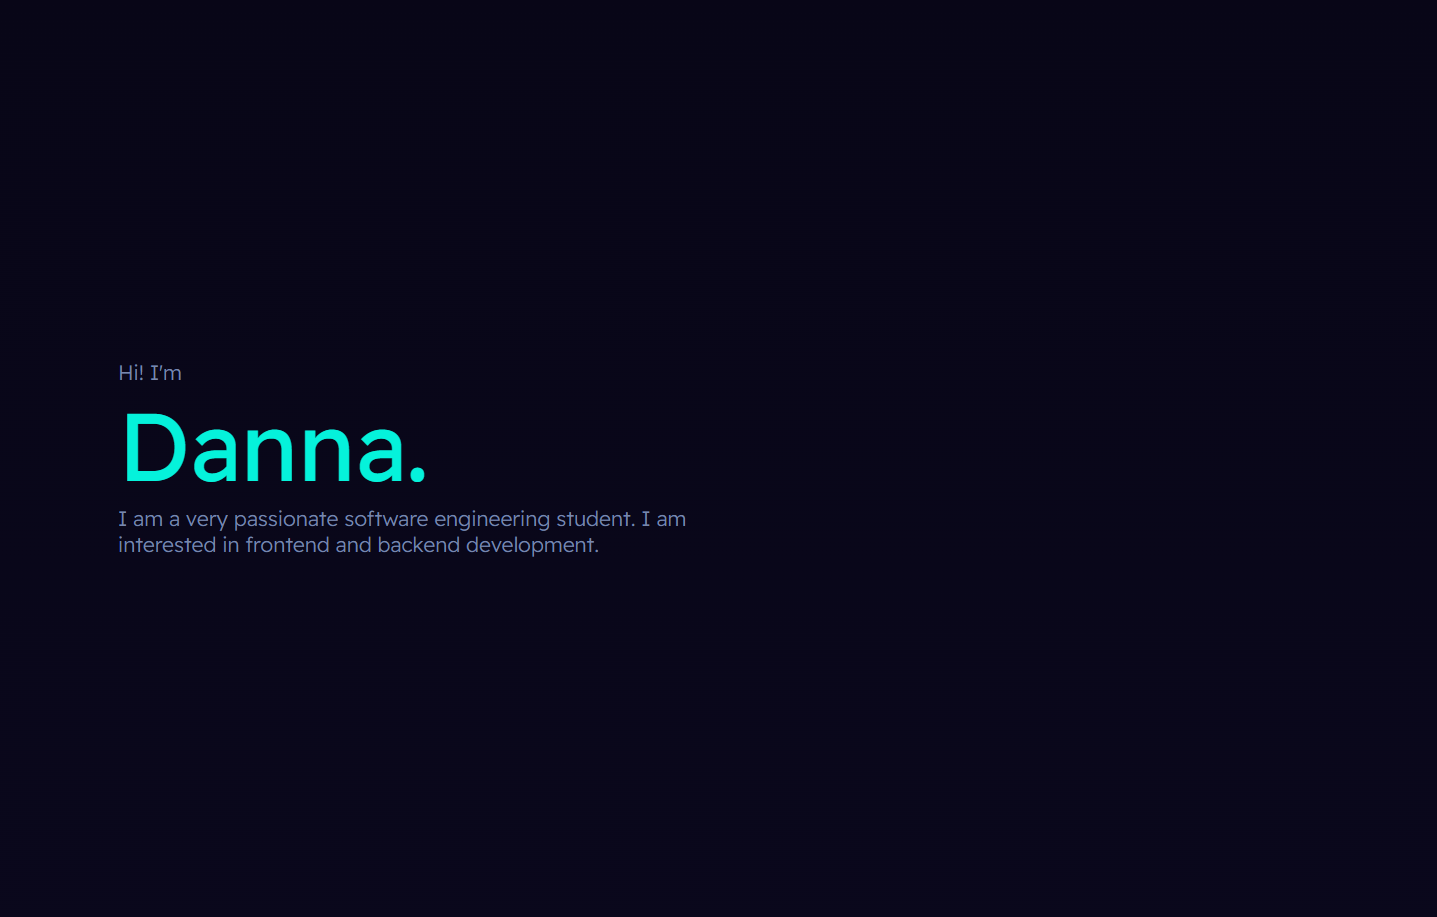
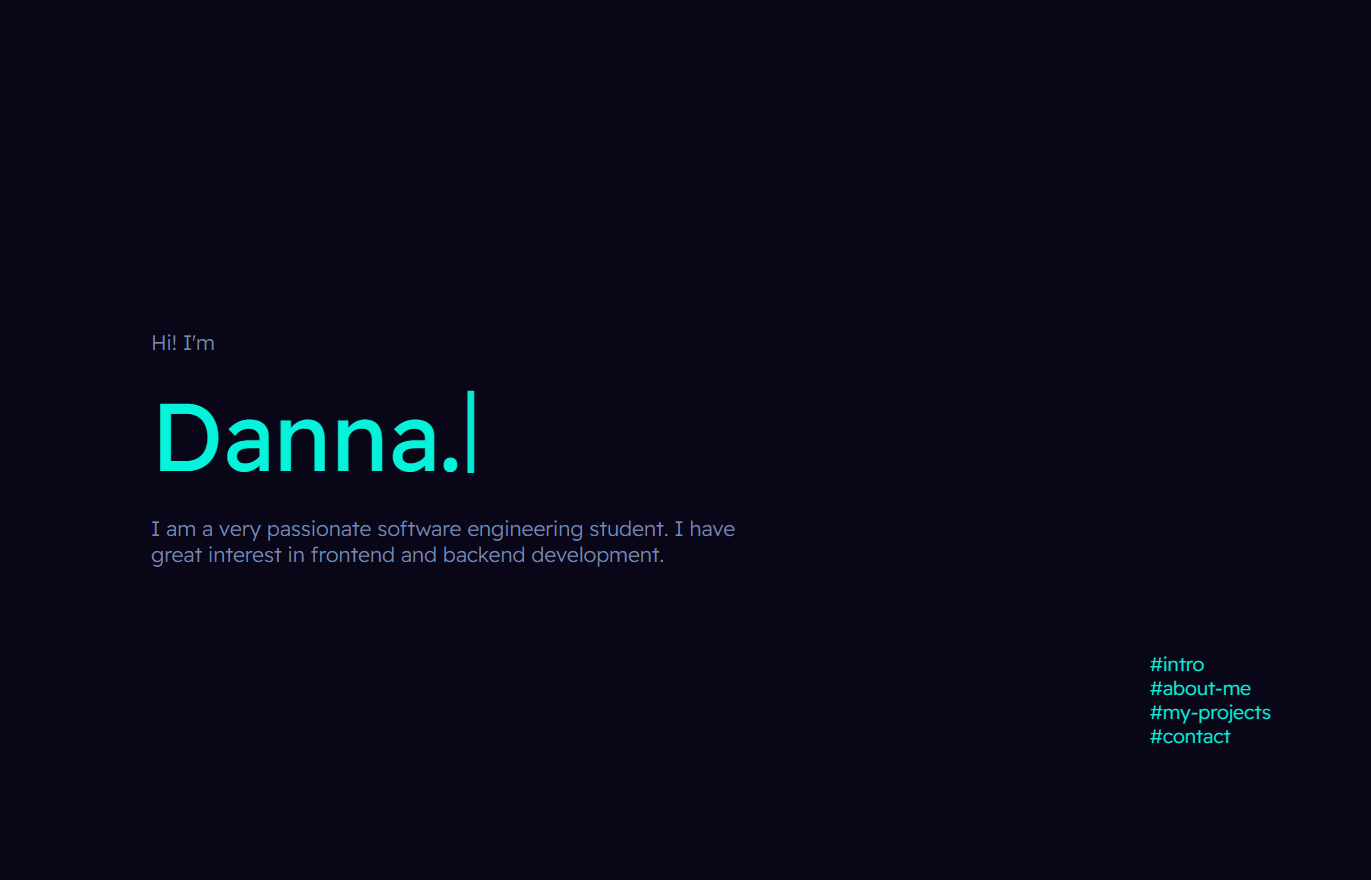
Add typed.js library and apply typing animation to title

Changed region(s): [[0.0613, 0.3682, 0.5514, 0.6443], [0.8271, 0.7364, 0.919, 0.8591]]

diff --git a/src/components/Intro.js b/src/components/Intro.js
@@ -1,14 +1,35 @@
-import { useState } from "react";
+import Typed from "typed.js";
+import { useState, useEffect, useRef  } from "react";
 import "../css/Intro.css";
 import NavBar from "./NavBar";
 import "../css/NavBar.css";
 function Intro() {
+    const el = useRef(null);
     const [open,setOpen]=useState("close");
+
+    useEffect(() => {
+        const typed = new Typed(el.current, {
+          strings: ["Hi! I'm", "Danna."],         startDelay: 300,
+          typeSpeed: 80,
+          backSpeed: 100,
+          backDelay: 100
+        });
+    
+        // Destropying
+        return () => {
+          typed.destroy();
+        };
+      }, []);
+
     return ( 
         <header className="header" id="intro">
             <p className="intro-greet">Hi! I'm</p> 
-            <h1>Danna.</h1>
-            <p className="intro-description">I am a very passionate software engineering student. I am interested in frontend and backend development.</p>
+            <div className="title">
+                <h1 ref={el}>Danna.</h1>
+            </div>
+            <p className="intro-description">
+                I am a very passionate software engineering student. I have great interest in frontend and backend development.
+            </p>
             <button 
                 className={`hamburguer ${open === "close"? "":"open"}`}
                 onClick={() => open==="open"?setOpen("close"):setOpen("open")}

diff --git a/src/components/AboutMe.js b/src/components/AboutMe.js
@@ -5,6 +5,7 @@ import {ReactComponent as TechJS} from '../img/js.svg';
 import {ReactComponent as TechREACT} from '../img/react.svg';
 import {ReactComponent as TechGIT} from '../img/git.svg';
 import {ReactComponent as TechSQL} from '../img/sql.svg';
+import {ReactComponent as TechJAVA} from '../img/java.svg';
 import "../css/AboutMe.css";
 
 function AboutMe() {
@@ -32,12 +33,17 @@ function AboutMe() {
         sql:{
             img:<TechSQL className="tech-icon"/>,
             tech: "SQL"
+        },
+        java:{
+            img:<TechJAVA className="tech-icon"/>,
+            tech: "Java"
         }
     };
     return ( 
         <Section id="about-me">
             <h2>about me .</h2>
             <p className="aboutme-description">I am a fourth year <strong>software development student</strong> at the technological university of Peru. I am also a self-taught person. I have great interest in <strong>frontend</strong> and <strong>backend</strong> development.</p>
+            <p className="aboutme-description">I enjoy learning from platforms that help me improving my skills, like FreeCodeCamp, Academia X and TheOdinProject.</p>
             <h3>Technologies I’ve been working with:</h3>
             
             <ul>

diff --git a/src/components/ProjectTab.js b/src/components/ProjectTab.js
@@ -11,7 +11,7 @@ function ProjectTab() {
             {
                 title:"Danna Portfolio",
                 techs:"html5/css/React.js",
-                description:"My personal portfolio developed with React.js from scratch and bootstrapped with Create React App",
+                description:"My personal portfolio developed with React.js from scratch and bootstrapped with Create React App.",
                 img:<img className="project-img" src={ProjectPortfolio} alt="Bookmark"/>,
                 linkGitRepo:"https://github.com/dannxvc/danna-portfolio",
                 linkLiveSite:"https://bookmark-pg-react.pages.dev/"
@@ -19,7 +19,7 @@ function ProjectTab() {
             {
                 title:"Bookmark Manager",
                 techs:"html5/css/React.js",
-                description:"A frontendmentor challenge.Website developed with React.js from scratch.",
+                description:"A frontendmentor challenge. Website developed with React.js from scratch.",
                 img:<img className="project-img" src={ProjectBookmark} alt="Bookmark"/>,
                 linkGitRepo:"https://github.com/dannxvc/bookmark-pg-react",
                 linkLiveSite:"https://bookmark-pg-react.pages.dev/"

diff --git a/src/css/Intro.css b/src/css/Intro.css
@@ -19,12 +19,32 @@
     position: fixed;
     top: 2rem;
     right: 2rem;
-    z-index: 3;
+    z-index: 4;
 }
 .hamburguer.open{
     z-index: 2;
     content: url(../img/close.svg);
     display: flex;
+    z-index: 4;
+}
+.title{
+    display: flex;
+    align-items: center;
+    height: 6rem;
+}
+.typed-cursor{
+    color: var(--green-strong);
+    font-size: 4rem;
+    margin-bottom: 1.4rem;
+}
+@media only screen and (min-width:30rem) {
+    .title{
+        height: 10rem;
+    }
+    .typed-cursor{
+        font-size: 5.5rem;
+        margin-bottom: 1.5rem;
+    }
 }
 @media only screen and (min-width:75rem) {
     .hamburguer{

diff --git a/src/css/NavBar.css b/src/css/NavBar.css
@@ -5,7 +5,7 @@
     top:0;
     left: 0;
     padding: 1rem 1rem 1rem 3rem;
-    z-index: 1;
+    z-index: 3;
     display: none;
     background:var(--primary-dark);
     width: 100%;
@@ -29,7 +29,6 @@
         right: 10rem;
         top: auto;
         left: auto;
-        z-index: 3;
         background:transparent;
         width: auto;
     }

diff --git a/src/css/Projects.css b/src/css/Projects.css
@@ -37,7 +37,12 @@
     flex-direction: column;
     align-items: center;
     text-align: center;
+    border: solid 0.05rem transparent;
     padding: 13rem 2rem 3rem 2rem;
+}
+.project-card:hover{
+    border: solid 0.05rem var(--secondary);
+    background-color: var(--primary-light);
 }
 .project-img{
     position: absolute;
